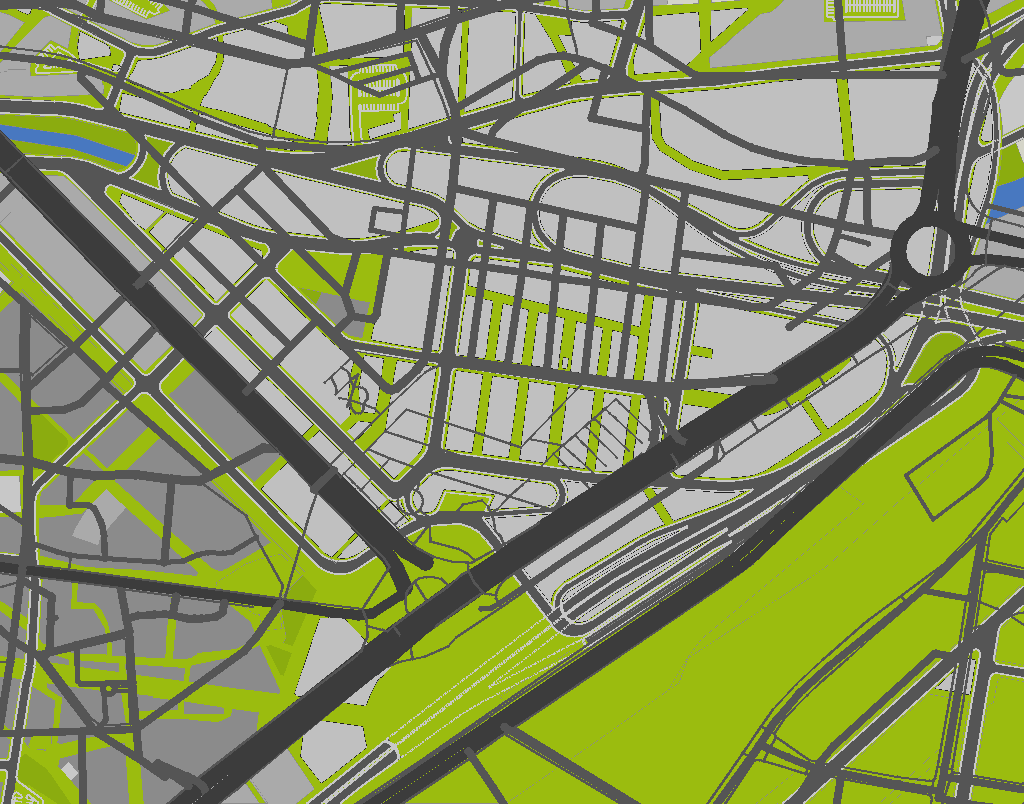
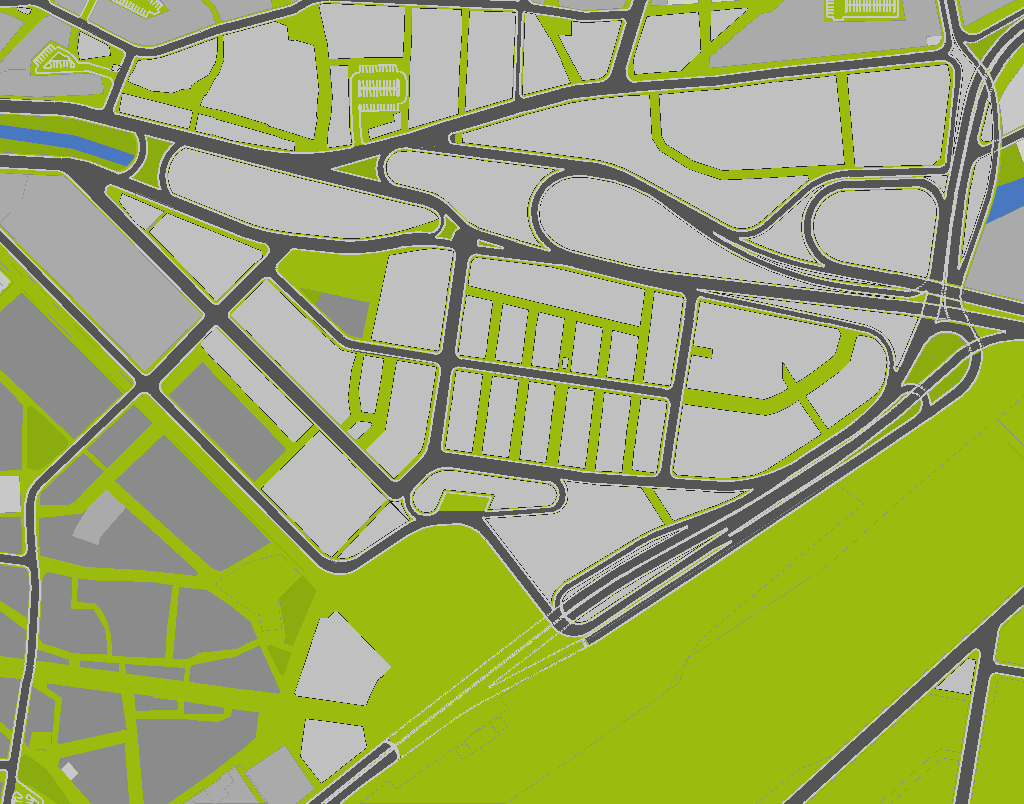
Yollar: OSM katmani hizasizdi (43/67 bloktan geciyordu) — kaldirildi; yollar planin kendi PL_YOL katmanindan (remap_gb --no-osm bayragi)

diff --git a/mapdata/remap_gb.py b/mapdata/remap_gb.py
@@ -106,7 +106,7 @@ def unity_json():
     json.dump(d, open(hedef, "w", encoding="utf-8"))
     print("OK ->", hedef)
 
-def main():
+def main(nosm=False, cikti=None):
     img = Image.open(SRC).convert("RGB")
     p = img.convert("P", palette=Image.Palette.ADAPTIVE, colors=256)
     pal = p.getpalette()
@@ -116,12 +116,20 @@ def main():
         yeni += list(HARITA.get(c, en_yakin(c)))
     p.putpalette(yeni)
     out = p.convert("RGB")
-    ciz_yollar(out)
-    out.save(DST)
+    if not nosm:
+        ciz_yollar(out)
+    hedef = cikti or DST
+    out.save(hedef)
     os.makedirs(PREVIEW, exist_ok=True)
     out.resize((1024, 804), Image.NEAREST).save(os.path.join(PREVIEW, "harita_zemin_gb_preview.png"))
-    print("OK ->", DST)
-    unity_json()
+    print("OK ->", hedef)
+    if not cikti:
+        unity_json()
 
 if __name__ == "__main__":
-    main()
+    import argparse
+    ap = argparse.ArgumentParser()
+    ap.add_argument("--no-osm", action="store_true", help="OSM yol katmanini cizme (sadece palet remap)")
+    ap.add_argument("--out", help="cikti dosyasi (varsayilan: uretim/harita_zemin_gb.png)")
+    a = ap.parse_args()
+    main(nosm=a.no_osm, cikti=a.out)
